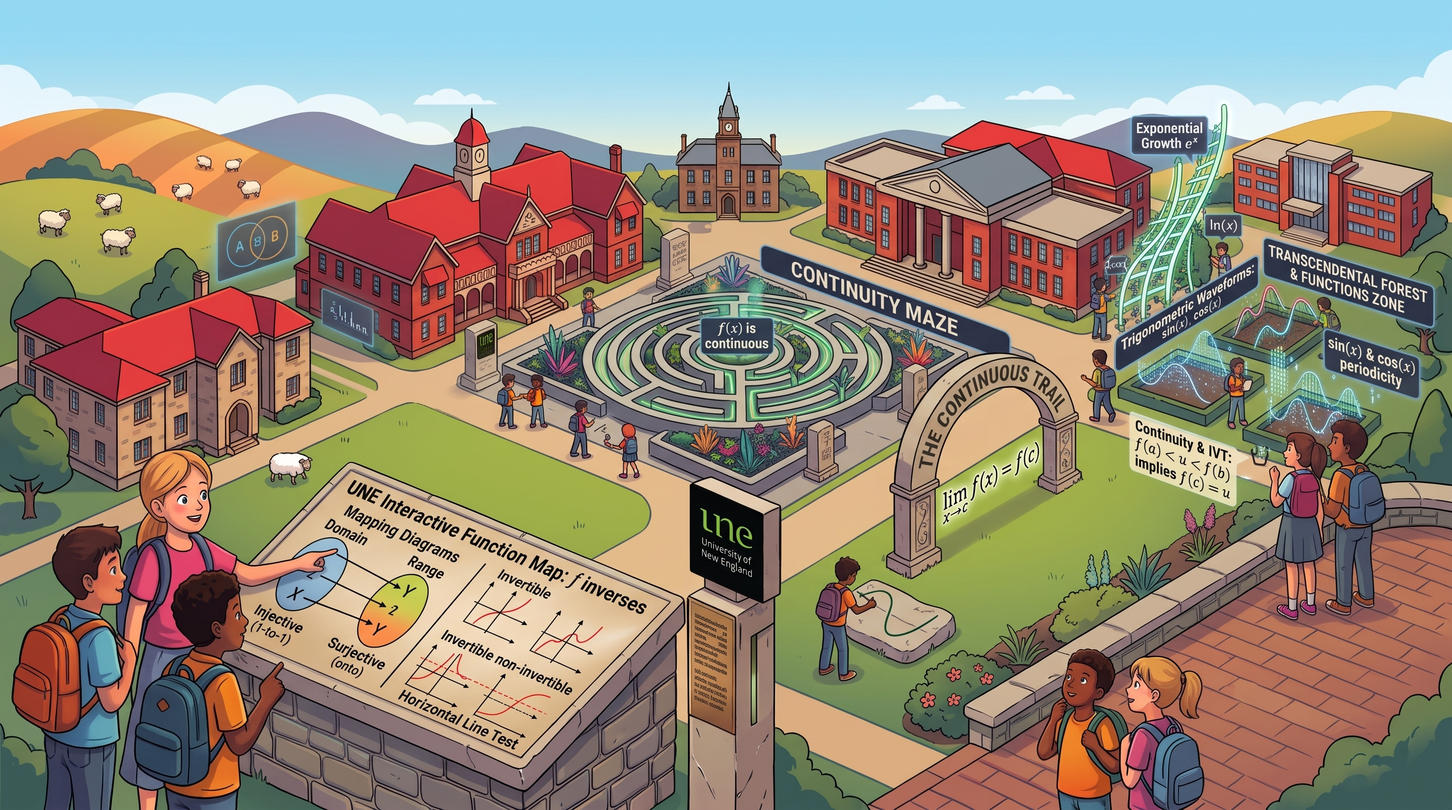
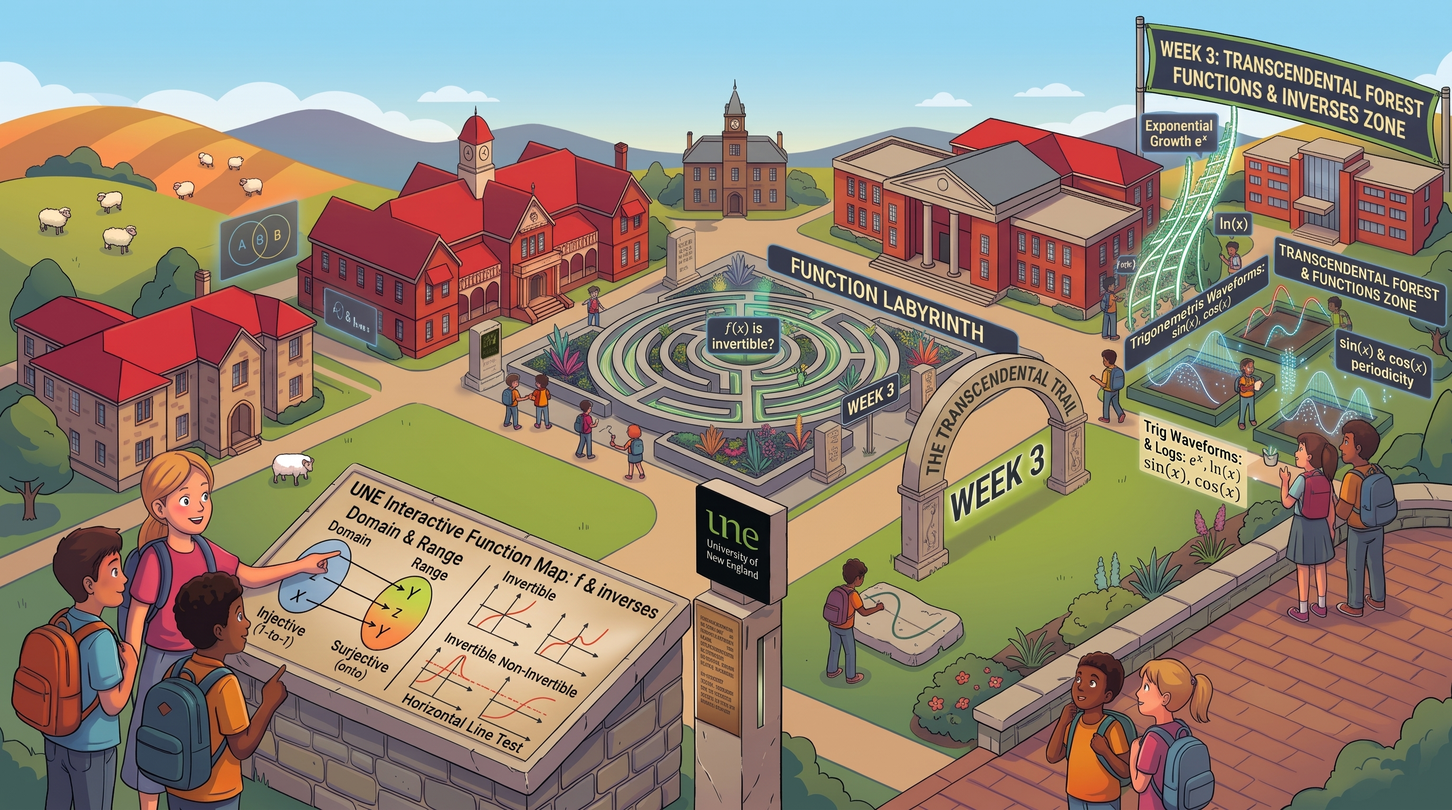
docs: restructure week 3 hub and generate week 4 syllabus hub
- Update `week3.html` to reflect the removal of Lecture 9.
- Revise the Week 3 hero image to use the updated "Transcendental Forest
  Functions & Inverses Zone" artwork.
- Update Week 3 introductory prose, removing references to limits and
  continuity to accurately reflect the new module boundaries.
- Create `week4.html` establishing the "Calculus Frontier" module, featuring
  the new limits and continuity hero image and a green accent theme.
- Add structured syllabus cards to `week4.html` for Lecture 9 (Limits),
  Lecture 10 (Continuity & IVT), and Lecture 11 (Asymptotes), along with
  a new podcast placeholder and Quiz 2 assessment alert.

diff --git a/week4.html b/week4.html
@@ -1,0 +1,186 @@
+<!DOCTYPE html>
+<html lang="en">
+<head>
+    <meta charset="UTF-8">
+    <meta name="viewport" content="width=device-width, initial-scale=1.0">
+    <title>Week 4: Limits & Continuity | MTHS120</title>
+    <!-- KaTeX Integration -->
+    <link rel="stylesheet" href="https://cdn.jsdelivr.net/npm/katex@0.16.8/dist/katex.min.css">
+    <script defer src="https://cdn.jsdelivr.net/npm/katex@0.16.8/dist/katex.min.js"></script>
+    <script defer src="https://cdn.jsdelivr.net/npm/katex@0.16.8/dist/contrib/auto-render.min.js"
+            onload="renderMathInElement(document.body, {delimiters: [{left: '$$', right: '$$', display: true}, {left: '$', right: '$', display: false}]});"></script>
+    <style>
+        :root {
+            --bg: #f8fafc; --text: #0f172a; --card: #ffffff; --border: #cbd5e1;
+            --accent: #059669; --accent-hover: #047857; /* Switching accent to green for Week 4 Calculus Frontier */
+            --font-ui: ui-sans-serif, system-ui, -apple-system, BlinkMacSystemFont, "Segoe UI", Roboto, "Helvetica Neue", Arial, sans-serif;
+        }
+        body { font-family: var(--font-ui); background: var(--bg); color: var(--text); line-height: 1.6; margin: 0; padding: 2rem; }
+        .container { max-width: 1200px; margin: 0 auto; }
+        .header { border-bottom: 2px solid var(--border); padding-bottom: 1rem; margin-bottom: 2rem; display: flex; justify-content: space-between; align-items: center; flex-wrap: wrap; gap: 1rem; }
+        .module-content { background: var(--card); padding: 2rem; border-radius: 8px; box-shadow: 0 4px 6px -1px rgba(0,0,0,0.05), 0 2px 4px -1px rgba(0,0,0,0.03); margin-bottom: 2rem; border: 1px solid var(--border); }
+
+        .intro-lead { font-size: 1.05rem; color: #1e293b; line-height: 1.75; margin-bottom: 2rem; background: #f8fafc; padding: 1.75rem; border-radius: 8px; border: 1px solid var(--border); border-left: 5px solid var(--accent); }
+        .intro-lead h3 { margin-top: 0; margin-bottom: 0.75rem; color: #0f172a; font-size: 1.25rem; }
+        .intro-lead p { margin: 0 0 1rem 0; }
+        .intro-lead p:last-child { margin-bottom: 0; }
+
+        .orientation-section { margin: 2rem 0 2.5rem 0; color: #334155; line-height: 1.75; font-size: 1rem; }
+        .orientation-section h3 { margin-top: 0; color: #0f172a; font-size: 1.25rem; border-bottom: 1px solid #e2e8f0; padding-bottom: 0.5rem; margin-bottom: 1rem; }
+        .orientation-section p { margin-bottom: 1.15rem; }
+
+        h2 { border-bottom: 2px solid var(--border); padding-bottom: 0.5rem; margin-top: 2.5rem; color: #0f172a; font-family: var(--font-ui); scroll-margin-top: 2rem; }
+        h3 { color: #1e293b; margin-top: 1.5rem; font-family: var(--font-ui); scroll-margin-top: 2rem; }
+
+        .lecture-card { background: #ffffff; border: 1px solid var(--border); border-radius: 8px; padding: 1.5rem; margin-bottom: 1.5rem; transition: transform 0.15s ease, box-shadow 0.15s ease; }
+        .lecture-card:hover { transform: translateY(-2px); box-shadow: 0 6px 12px -2px rgba(0,0,0,0.08); border-color: var(--accent); }
+        .lecture-card h3 { margin-top: 0; color: #0f172a; }
+        .lecture-badge { display: inline-block; background: var(--accent); color: white; padding: 0.2rem 0.55rem; border-radius: 4px; font-weight: 700; font-size: 0.8rem; text-transform: uppercase; margin-bottom: 0.5rem; }
+
+        .assessment-alert { background: #eff6ff; border: 1px solid #bfdbfe; border-left: 5px solid #3b82f6; padding: 1.5rem; border-radius: 8px; margin: 2rem 0; box-shadow: 0 2px 4px rgba(0,0,0,0.02); }
+        .assessment-alert h3 { margin: 0 0 0.5rem 0; color: #1d4ed8; font-size: 1.25rem; display: flex; align-items: center; gap: 0.5rem; }
+        .assessment-alert p { margin: 0; color: #1e3a8a; font-size: 1.05rem; line-height: 1.6; }
+
+        /* Mobile-first adjustments */
+        @media (max-width: 768px) {
+            .katex-display { overflow-x: auto !important; overflow-y: hidden !important; -webkit-overflow-scrolling: touch !important; max-width: 100% !important; padding: 0.25rem 0 !important; }
+            body { background: #ffffff; padding: 1rem 0.75rem; }
+            .container { max-width: 100%; margin: 0; }
+            .module-content { background: transparent; padding: 0; border: none; border-radius: 0; box-shadow: none; margin-bottom: 1rem; }
+            .header { padding-bottom: 0.75rem; margin-bottom: 1.25rem; }
+            .header > div:last-child, .nav-btn-group { display: flex !important; flex-direction: row !important; flex-wrap: nowrap !important; width: 100% !important; gap: 0.5rem !important; }
+            .header > div:last-child a, .nav-btn-group a { flex: 1 1 0 !important; min-width: 0 !important; text-align: center !important; padding: 0.55rem 0.4rem !important; font-size: 0.82rem !important; white-space: nowrap !important; overflow: hidden !important; text-overflow: ellipsis !important; }
+            p, div, li, blockquote { word-break: break-word; overflow-wrap: break-word; }
+        }
+    </style>
+</head>
+<body>
+    <div class="container">
+        <!-- TOP NAVIGATION HEADER -->
+        <div class="header" style="border-bottom: 2px solid var(--border); padding-bottom: 1.5rem; margin-bottom: 2rem; display: flex; flex-direction: column; align-items: center; gap: 1.25rem;">
+            <div class="nav-btn-group" style="display: flex; gap: 0.5rem; justify-content: center; flex-wrap: wrap; width: 100%;">
+                <a href="week3.html" style="background: #f1f5f9; color: #475569; border: 1px solid var(--border); padding: 0.5rem 0.85rem; border-radius: 6px; text-decoration: none; font-weight: 600; font-size: 0.88rem; text-align: center; white-space: nowrap;">&larr; Prev Week</a>
+                <a href="index.html" style="background: #f1f5f9; color: #475569; border: 1px solid var(--border); padding: 0.5rem 0.85rem; border-radius: 6px; text-decoration: none; font-weight: 600; font-size: 0.88rem; text-align: center; white-space: nowrap;">&#8962; Curriculum Index</a>
+                <a href="week5.html" style="background: #f1f5f9; color: #475569; border: 1px solid var(--border); padding: 0.5rem 0.85rem; border-radius: 6px; text-decoration: none; font-weight: 600; font-size: 0.88rem; text-align: center; white-space: nowrap;">Next Week &rarr;</a>
+            </div>
+            <div style="text-align: center; width: 100%; min-width: 0;">
+                <h1 style="margin: 0; line-height: 1.3; font-size: 1.5rem;">Week 4 Overview Hub</h1>
+            </div>
+        </div>
+
+        <div class="module-content">
+            <!-- HERO IMAGE -->
+            <div style="margin-bottom: 2rem; border-radius: 8px; overflow: hidden; border: 1px solid var(--border); box-shadow: 0 4px 6px -1px rgba(0,0,0,0.05), 0 2px 4px -1px rgba(0,0,0,0.03);">
+                <img src="images/chapter4-hero.jpg" alt="Week 4: Limits & Continuity - UNE Campus Discovery Trail" style="width: 100%; height: auto; display: block;">
+            </div>
+
+            <!-- EMPATHETIC ORIENTATION LEAD -->
+            <div class="intro-lead">
+                <h3>Welcome to Week 4: The Calculus Frontier</h3>
+                <p>
+                    Up until this point, mathematics has been a study of static states. You've evaluated functions at specific, fixed inputs. You've solved algebra for exact answers. But what happens when an input is strictly forbidden—like dividing by zero—yet we still desperately need to know how the system behaves <em>right next to it</em>?
+                </p>
+                <p>
+                    This week, we cross the boundary into dynamic mathematics. We introduce the <strong>Limit</strong>—the foundational mechanism that powers all of calculus. By learning to track where a function is "intending" to go, rather than just where it arrives, we gain the ability to analyze jumps, bridge holes in our domains, and mathematically define what it means for a line to be truly continuous.
+                </p>
+            </div>
+
+            <!-- PROSE-DRIVEN ROADMAP -->
+            <div class="orientation-section">
+                <h3>The Big Picture: Navigating Jumps and Holes</h3>
+                <p>
+                    <strong>Lecture 9 (The Limit of a Function)</strong> kicks off our journey. We will formalize the notation $\lim_{x \to c} f(x)$ and learn how to evaluate functions as they approach a point from the left and the right. We will encounter removable discontinuities (holes) and vertical asymptotes, learning how algebraic manipulation can save us when direct substitution results in $\frac{0}{0}$.
+                </p>
+                <p>
+                    In <strong>Lecture 10 (Continuity and the IVT)</strong>, we leverage our new understanding of limits to construct a flawless mathematical definition of an "unbroken" curve. If a curve is continuous, it grants us a massive mathematical superpower: the <em>Intermediate Value Theorem (IVT)</em>, which allows us to prove that equations have solutions even when we can't perfectly calculate them.
+                </p>
+                <p>
+                    In <strong>Lecture 11 (Limits at Infinity & Asymptotes)</strong>, we look at the far horizons of the Cartesian plane. What happens to a system as time $t \to \infty$? We will use limits to formally identify horizontal asymptotes and determine the ultimate, long-term behavior of rational and exponential functions.
+                </p>
+            </div>
+
+            <!-- ASSESSMENT ALERT -->
+            <div class="assessment-alert">
+                <h3>🔍 Heads Up: Quiz 2 Approaching</h3>
+                <p>
+                    With Assignment 1 behind us, your next milestone is <strong>Quiz 2</strong> at the end of Week 4. It will focus entirely on evaluating limits, identifying discontinuities, and applying the Intermediate Value Theorem. Ensure you've completed the Week 4 tutorial sheets to build up your algebraic limit reflexes before attempting the quiz.
+                </p>
+            </div>
+
+            <!-- WEEK 4 PODCAST COMPONENT -->
+            <div id="podcast" class="podcast-card" style="background: var(--card); border: 1px solid var(--border); border-left: 5px solid var(--accent); border-radius: 8px; padding: 1.25rem 1.5rem; margin: 1.5rem 0 2rem 0; box-shadow: 0 2px 4px rgba(0,0,0,0.03);">
+                <div style="display: flex; justify-content: space-between; align-items: flex-start; flex-wrap: wrap; gap: 0.75rem; margin-bottom: 0.75rem;">
+                    <div>
+                        <span style="display: inline-block; background: #ecfdf5; color: #065f46; font-size: 0.75rem; font-weight: 700; text-transform: uppercase; letter-spacing: 0.05em; padding: 0.2rem 0.55rem; border-radius: 4px; margin-bottom: 0.35rem; border: 1px solid #a7f3d0;">
+                            🎧 Weekly Kickoff (Week 4 Overview)
+                        </span>
+                        <h3 style="margin: 0; color: #0f172a; font-size: 1.15rem;">The Ghost of 0/0 and the Invention of Calculus</h3>
+                        <p style="margin: 0.25rem 0 0 0; font-size: 0.9rem; color: #64748b;">
+                            How do you calculate speed at a single frozen instant of time? We discuss the historical crisis of dividing zero by zero, how Newton and Leibniz bypassed the rules of algebra using limits, and why understanding "nearness" is the secret to unlocking differential calculus.
+                        </p>
+                    </div>
+                    <a href="#"
+                       style="background: #f1f5f9; color: #475569; border: 1px solid var(--border); padding: 0.4rem 0.75rem; border-radius: 6px; text-decoration: none; font-weight: 600; font-size: 0.82rem; white-space: nowrap; display: inline-flex; align-items: center; gap: 0.35rem;">
+                        <span>⬇ Download / Open</span>
+                    </a>
+                </div>
+                <div style="width: 100%; margin-top: 0.5rem;">
+                    <audio controls preload="metadata" style="width: 100%; height: 42px; border-radius: 6px;">
+                        <!-- Placeholder for Week 4 audio -->
+                        <source src="#" type="audio/mp4">
+                        Your browser does not support the audio element.
+                    </audio>
+                </div>
+            </div>
+
+            <div style="margin: 2rem 0;">
+                <h2 style="margin-top: 0;">Weekly Lecture Modules</h2>
+                <p style="color: #475569; font-size: 1.05rem;">Select a lecture module below to begin:</p>
+            </div>
+
+            <!-- LECTURE 9 CARD -->
+            <div class="lecture-card">
+                <span class="lecture-badge">Lecture 9</span>
+                <h3><a href="week4-lecture9.html" style="color: inherit; text-decoration: none;">The Limit of a Function &rarr;</a></h3>
+                <p style="color: #334155; margin-bottom: 1rem;">
+                    We introduce the concept of the mathematical limit. Learn how to track a function's intended destination, evaluate limits algebraically, and handle tricky scenarios where direct substitution fails.
+                </p>
+                <div>
+                    <a href="week4-lecture9.html" style="background: var(--accent); color: white; padding: 0.45rem 0.9rem; border-radius: 5px; text-decoration: none; font-weight: 600; font-size: 0.88rem;">Open Lecture 9 &rarr;</a>
+                </div>
+            </div>
+
+            <!-- LECTURE 10 CARD -->
+            <div class="lecture-card">
+                <span class="lecture-badge">Lecture 10</span>
+                <h3><a href="week4-lecture10.html" style="color: inherit; text-decoration: none;">Continuity & The Intermediate Value Theorem &rarr;</a></h3>
+                <p style="color: #334155; margin-bottom: 1rem;">
+                    What does it truly mean for a curve to be 'unbroken'? We bridge limits and functions to formally define continuity and explore powerful guarantees like the Intermediate Value Theorem.
+                </p>
+                <div>
+                    <a href="week4-lecture10.html" style="background: var(--accent); color: white; padding: 0.45rem 0.9rem; border-radius: 5px; text-decoration: none; font-weight: 600; font-size: 0.88rem;">Open Lecture 10 &rarr;</a>
+                </div>
+            </div>
+
+            <!-- LECTURE 11 CARD -->
+            <div class="lecture-card">
+                <span class="lecture-badge">Lecture 11</span>
+                <h3><a href="week4-lecture11.html" style="color: inherit; text-decoration: none;">Limits at Infinity & Asymptotes &rarr;</a></h3>
+                <p style="color: #334155; margin-bottom: 1rem;">
+                    Analyze the end-behavior of functions. We cast limits out to $+\infty$ and $-\infty$ to rigorously define horizontal asymptotes and determine which term "wins" in complex rational functions.
+                </p>
+                <div>
+                    <a href="week4-lecture11.html" style="background: var(--accent); color: white; padding: 0.45rem 0.9rem; border-radius: 5px; text-decoration: none; font-weight: 600; font-size: 0.88rem;">Open Lecture 11 &rarr;</a>
+                </div>
+            </div>
+
+            <!-- FOOTER NAVIGATION -->
+            <div class="footer-nav" style="margin-top: 3rem; padding-top: 1.5rem; border-top: 1px solid var(--border); display: flex; justify-content: center; align-items: center; gap: 0.75rem; flex-wrap: wrap;">
+                <a href="week3.html" style="background: #f1f5f9; color: #475569; border: 1px solid var(--border); padding: 0.5rem 0.85rem; border-radius: 6px; text-decoration: none; font-weight: 600; font-size: 0.88rem; text-align: center; white-space: nowrap;">&larr; Prev Week</a>
+                <a href="index.html" style="background: #f1f5f9; color: #475569; border: 1px solid var(--border); padding: 0.5rem 0.85rem; border-radius: 6px; text-decoration: none; font-weight: 600; font-size: 0.88rem; text-align: center; white-space: nowrap;">&#8962; Curriculum Index</a>
+                <a href="week5.html" style="background: #f1f5f9; color: #475569; border: 1px solid var(--border); padding: 0.5rem 0.85rem; border-radius: 6px; text-decoration: none; font-weight: 600; font-size: 0.88rem; text-align: center; white-space: nowrap;">Next Week &rarr;</a>
+            </div>
+        </div>
+    </div>
+</body>
+</html>

diff --git a/week3.html b/week3.html
@@ -71,7 +71,8 @@
         <div class="module-content">
             <!-- HERO IMAGE -->
             <div style="margin-bottom: 2rem; border-radius: 8px; overflow: hidden; border: 1px solid var(--border); box-shadow: 0 4px 6px -1px rgba(0,0,0,0.05), 0 2px 4px -1px rgba(0,0,0,0.03);">
-                <img src="images/chapter3-hero.jpg" alt="Week 3: Functions - UNE Campus Discovery Trail" style="width: 100%; height: auto; display: block;">
+                <!-- Updated Week 3 specific hero image -->
+                <img src="images/chapter3-hero.jpg" alt="Week 3: Transcendental Forest Functions & Inverses Zone - UNE Campus Discovery Trail" style="width: 100%; height: auto; display: block;">
             </div>
 
             <!-- EMPATHETIC ORIENTATION LEAD -->
@@ -81,7 +82,7 @@
                     Over the past two weeks, you've conquered the discrete world. You looked at sequences as stepping stones, examining what happens as you jump from step $n$ to step $n+1$, and built powerful logical tools to trap limits at infinity. You have proven that you can handle the rigorous mechanics of real analysis.
                 </p>
                 <p>
-                    Now, we shift gears. Instead of isolated points, we step into the continuous world of <strong>Functions</strong>. This week is all about mapping inputs to outputs in a fluid, connected way. We will look at how curves behave, how special functions (like logarithms and exponentials) stretch and compress numbers, and most importantly, we will formalize what it actually means for a curve to be "unbroken."
+                    Now, we shift gears. Instead of isolated points, we step into the continuous world of <strong>Functions</strong>. This week is all about mapping inputs to outputs in a fluid, connected way. We will look at how curves behave and how special functions (like logarithms and exponentials) stretch and compress numbers.
                 </p>
             </div>
 
@@ -89,16 +90,13 @@
             <div class="orientation-section">
                 <h3>The Big Picture: Mapping the Continuum</h3>
                 <p>
-                    If a sequence is a flipbook of individual snapshots, a function is a seamless movie. But how do we mathematically prove that the movie doesn't skip a frame?
+                    If a sequence is a flipbook of individual snapshots, a function is a seamless movie.
                 </p>
                 <p>
                     In <strong>Lecture 7 (Functions)</strong>, we lay the groundwork. We revisit domains and ranges, but with a more critical eye. We explore what it takes for a function to be reversible (injective and surjective properties) and look at the geometry behind inverse functions. This is the structural foundation you need before we bend these curves.
                 </p>
                 <p>
                     In <strong>Lecture 8 (Transcendental Functions)</strong>, we step outside the algebraic sandbox of polynomials. We tackle exponential growth, demystify the natural logarithm (why does $e$ keep showing up?), and review the periodic, oscillating nature of trigonometric functions. You will see how to define functions that algebra alone cannot capture.
-                </p>
-                <p>
-                    In <strong>Lecture 9 (Continuity of Functions)</strong>, we bring back the rigorous limits you mastered in Week 2 and aim them at our continuous curves. We define continuity formally (the $\epsilon-\delta$ definition) and explore the profound guarantees that unbroken curves provide, such as the Intermediate Value Theorem.
                 </p>
             </div>
 
@@ -119,7 +117,7 @@
                         </span>
                         <h3 style="margin: 0; color: #0f172a; font-size: 1.15rem;">The Anatomy of Unbroken Curves</h3>
                         <p style="margin: 0.25rem 0 0 0; font-size: 0.9rem; color: #64748b;">
-                            Join us as we explore the transition from discrete sequences to continuous functions. We discuss what makes a function "transcendental", why invertibility matters in the real world, and how mathematicians successfully trapped the idea of an "unbroken line" using the rigorous language of limits and continuity.
+                            Join us as we explore the transition from discrete sequences to continuous functions. We discuss what makes a function "transcendental", why invertibility matters in the real world, and how to model the cycles and curves of nature before stepping into differential calculus.
                         </p>
                     </div>
                     <a href="https://pub-96c6477c7d184ce0b88c4ace2687de01.r2.dev/week03/Functions_and_Continuity_optimized.m4a"
@@ -164,18 +162,6 @@
                 </p>
                 <div>
                     <a href="week3-lecture8.html" style="background: var(--accent); color: white; padding: 0.45rem 0.9rem; border-radius: 5px; text-decoration: none; font-weight: 600; font-size: 0.88rem;">Open Lecture 8 &rarr;</a>
-                </div>
-            </div>
-
-            <!-- LECTURE 9 CARD -->
-            <div class="lecture-card">
-                <span class="lecture-badge">Lecture 9</span>
-                <h3><a href="week3-lecture9.html" style="color: inherit; text-decoration: none;">Continuity of Functions &rarr;</a></h3>
-                <p style="color: #334155; margin-bottom: 1rem;">
-                    What does it truly mean for a curve to be 'unbroken'? We bridge limits and functions, formalize the $\epsilon-\delta$ definition of continuity, and explore powerful guarantees like the Intermediate Value Theorem.
-                </p>
-                <div>
-                    <a href="week3-lecture9.html" style="background: var(--accent); color: white; padding: 0.45rem 0.9rem; border-radius: 5px; text-decoration: none; font-weight: 600; font-size: 0.88rem;">Open Lecture 9 &rarr;</a>
                 </div>
             </div>
 

diff --git a/week4-lecture9.html b/week4-lecture9.html
@@ -3,7 +3,7 @@
 <head>
     <meta charset="UTF-8">
     <meta name="viewport" content="width=device-width, initial-scale=1.0">
-    <title>Week 3, Lecture 9: Continuity of Functions | MTHS120</title>
+    <title>Week 4, Lecture 9: Continuity of Functions | MTHS120</title>
     <!-- KaTeX Integration -->
     <link rel="stylesheet" href="https://cdn.jsdelivr.net/npm/katex@0.16.8/dist/katex.min.css">
     <script defer src="https://cdn.jsdelivr.net/npm/katex@0.16.8/dist/katex.min.js"></script>
@@ -70,11 +70,11 @@
         <div class="header" style="border-bottom: 2px solid var(--border); padding-bottom: 1.5rem; margin-bottom: 2rem; display: flex; flex-direction: column; align-items: center; gap: 1.25rem;">
             <div class="nav-btn-group" style="display: flex; gap: 0.5rem; justify-content: center; flex-wrap: wrap; width: 100%;">
                 <a href="week3-lecture8.html" style="background: #f1f5f9; color: #475569; border: 1px solid var(--border); padding: 0.5rem 0.85rem; border-radius: 6px; text-decoration: none; font-weight: 600; font-size: 0.88rem; text-align: center; white-space: nowrap;">&larr; Lecture 8</a>
-                <a href="week3.html" style="background: #f1f5f9; color: #475569; border: 1px solid var(--border); padding: 0.5rem 0.85rem; border-radius: 6px; text-decoration: none; font-weight: 600; font-size: 0.88rem; text-align: center; white-space: nowrap;">&uarr; Week 3 Hub</a>
-                <a href="week4.html" style="background: #f1f5f9; color: #475569; border: 1px solid var(--border); padding: 0.5rem 0.85rem; border-radius: 6px; text-decoration: none; font-weight: 600; font-size: 0.88rem; text-align: center; white-space: nowrap;">Lecture 10 &rarr;</a>
+                <a href="week4.html" style="background: #f1f5f9; color: #475569; border: 1px solid var(--border); padding: 0.5rem 0.85rem; border-radius: 6px; text-decoration: none; font-weight: 600; font-size: 0.88rem; text-align: center; white-space: nowrap;">&uarr; Week 4 Hub</a>
+                <a href="week4-lecture10.html" style="background: #f1f5f9; color: #475569; border: 1px solid var(--border); padding: 0.5rem 0.85rem; border-radius: 6px; text-decoration: none; font-weight: 600; font-size: 0.88rem; text-align: center; white-space: nowrap;">Lecture 10 &rarr;</a>
             </div>
             <div style="text-align: center; width: 100%; min-width: 0;">
-                <h1 style="margin: 0; line-height: 1.3; font-size: 1.5rem;">Week 3, Lecture 9: Continuity of Functions</h1>
+                <h1 style="margin: 0; line-height: 1.3; font-size: 1.5rem;">Week 4, Lecture 9: Continuity of Functions</h1>
             </div>
         </div>
 
@@ -204,8 +204,8 @@
             <!-- FOOTER NAVIGATION -->
             <div class="footer-nav" style="margin-top: 3rem; padding-top: 1.5rem; border-top: 1px solid var(--border); display: flex; justify-content: center; align-items: center; gap: 0.75rem; flex-wrap: wrap;">
                 <a href="week3-lecture8.html" style="background: #f1f5f9; color: #475569; border: 1px solid var(--border); padding: 0.5rem 0.85rem; border-radius: 6px; text-decoration: none; font-weight: 600; font-size: 0.88rem; text-align: center; white-space: nowrap;">&larr; Lecture 8</a>
-                <a href="week3.html" style="background: #f1f5f9; color: #475569; border: 1px solid var(--border); padding: 0.5rem 0.85rem; border-radius: 6px; text-decoration: none; font-weight: 600; font-size: 0.88rem; text-align: center; white-space: nowrap;">&uarr; Week 3 Hub</a>
-                <a href="week4.html" style="background: #f1f5f9; color: #475569; border: 1px solid var(--border); padding: 0.5rem 0.85rem; border-radius: 6px; text-decoration: none; font-weight: 600; font-size: 0.88rem; text-align: center; white-space: nowrap;">Lecture 10 &rarr;</a>
+                <a href="week4.html" style="background: #f1f5f9; color: #475569; border: 1px solid var(--border); padding: 0.5rem 0.85rem; border-radius: 6px; text-decoration: none; font-weight: 600; font-size: 0.88rem; text-align: center; white-space: nowrap;">&uarr; Week 4 Hub</a>
+                <a href="week4-lecture10.html" style="background: #f1f5f9; color: #475569; border: 1px solid var(--border); padding: 0.5rem 0.85rem; border-radius: 6px; text-decoration: none; font-weight: 600; font-size: 0.88rem; text-align: center; white-space: nowrap;">Lecture 10 &rarr;</a>
             </div>
         </div>
     </div>

diff --git a/week3-lecture8.html b/week3-lecture8.html
@@ -318,7 +318,7 @@
                 <div class="nav-btn-group" style="display: flex; gap: 0.5rem; justify-content: center; flex-wrap: wrap; width: 100%">
                     <a href="week3-lecture7.html" style="background: #f1f5f9; color: #475569; border: 1px solid var(--border); padding: 0.5rem 0.85rem; border-radius: 6px; text-decoration: none; font-weight: 600; font-size: 0.88rem; text-align: center; white-space: nowrap">&larr; Lecture 7</a>
                     <a href="week3.html" style="background: #f1f5f9; color: #475569; border: 1px solid var(--border); padding: 0.5rem 0.85rem; border-radius: 6px; text-decoration: none; font-weight: 600; font-size: 0.88rem; text-align: center; white-space: nowrap">&uarr; Week 3 Hub</a>
-                    <a href="week3-lecture9.html" style="background: #f1f5f9; color: #475569; border: 1px solid var(--border); padding: 0.5rem 0.85rem; border-radius: 6px; text-decoration: none; font-weight: 600; font-size: 0.88rem; text-align: center; white-space: nowrap">Lecture 9 &rarr;</a>
+                    <a href="week4-lecture9.html" style="background: #f1f5f9; color: #475569; border: 1px solid var(--border); padding: 0.5rem 0.85rem; border-radius: 6px; text-decoration: none; font-weight: 600; font-size: 0.88rem; text-align: center; white-space: nowrap">Lecture 9 &rarr;</a>
                 </div>
                 <div style="text-align: center; width: 100%; min-width: 0">
                     <h1 style="margin: 0; line-height: 1.3; font-size: 1.5rem">Week 3, Lecture 8: Transcendental Functions</h1>
@@ -3562,7 +3562,7 @@
                 <div class="footer-nav" style="margin-top: 3rem; padding-top: 1.5rem; border-top: 1px solid var(--border); display: flex; justify-content: center; align-items: center; gap: 0.75rem; flex-wrap: wrap">
                     <a href="week3-lecture7.html" style="background: #f1f5f9; color: #475569; border: 1px solid var(--border); padding: 0.5rem 0.85rem; border-radius: 6px; text-decoration: none; font-weight: 600; font-size: 0.88rem; text-align: center; white-space: nowrap">&larr; Lecture 7</a>
                     <a href="week3.html" style="background: #f1f5f9; color: #475569; border: 1px solid var(--border); padding: 0.5rem 0.85rem; border-radius: 6px; text-decoration: none; font-weight: 600; font-size: 0.88rem; text-align: center; white-space: nowrap">&uarr; Week 3 Hub</a>
-                    <a href="week3-lecture9.html" style="background: #f1f5f9; color: #475569; border: 1px solid var(--border); padding: 0.5rem 0.85rem; border-radius: 6px; text-decoration: none; font-weight: 600; font-size: 0.88rem; text-align: center; white-space: nowrap">Lecture 9 &rarr;</a>
+                    <a href="week4-lecture9.html" style="background: #f1f5f9; color: #475569; border: 1px solid var(--border); padding: 0.5rem 0.85rem; border-radius: 6px; text-decoration: none; font-weight: 600; font-size: 0.88rem; text-align: center; white-space: nowrap">Lecture 9 &rarr;</a>
                 </div>
             </div>
         </div>
